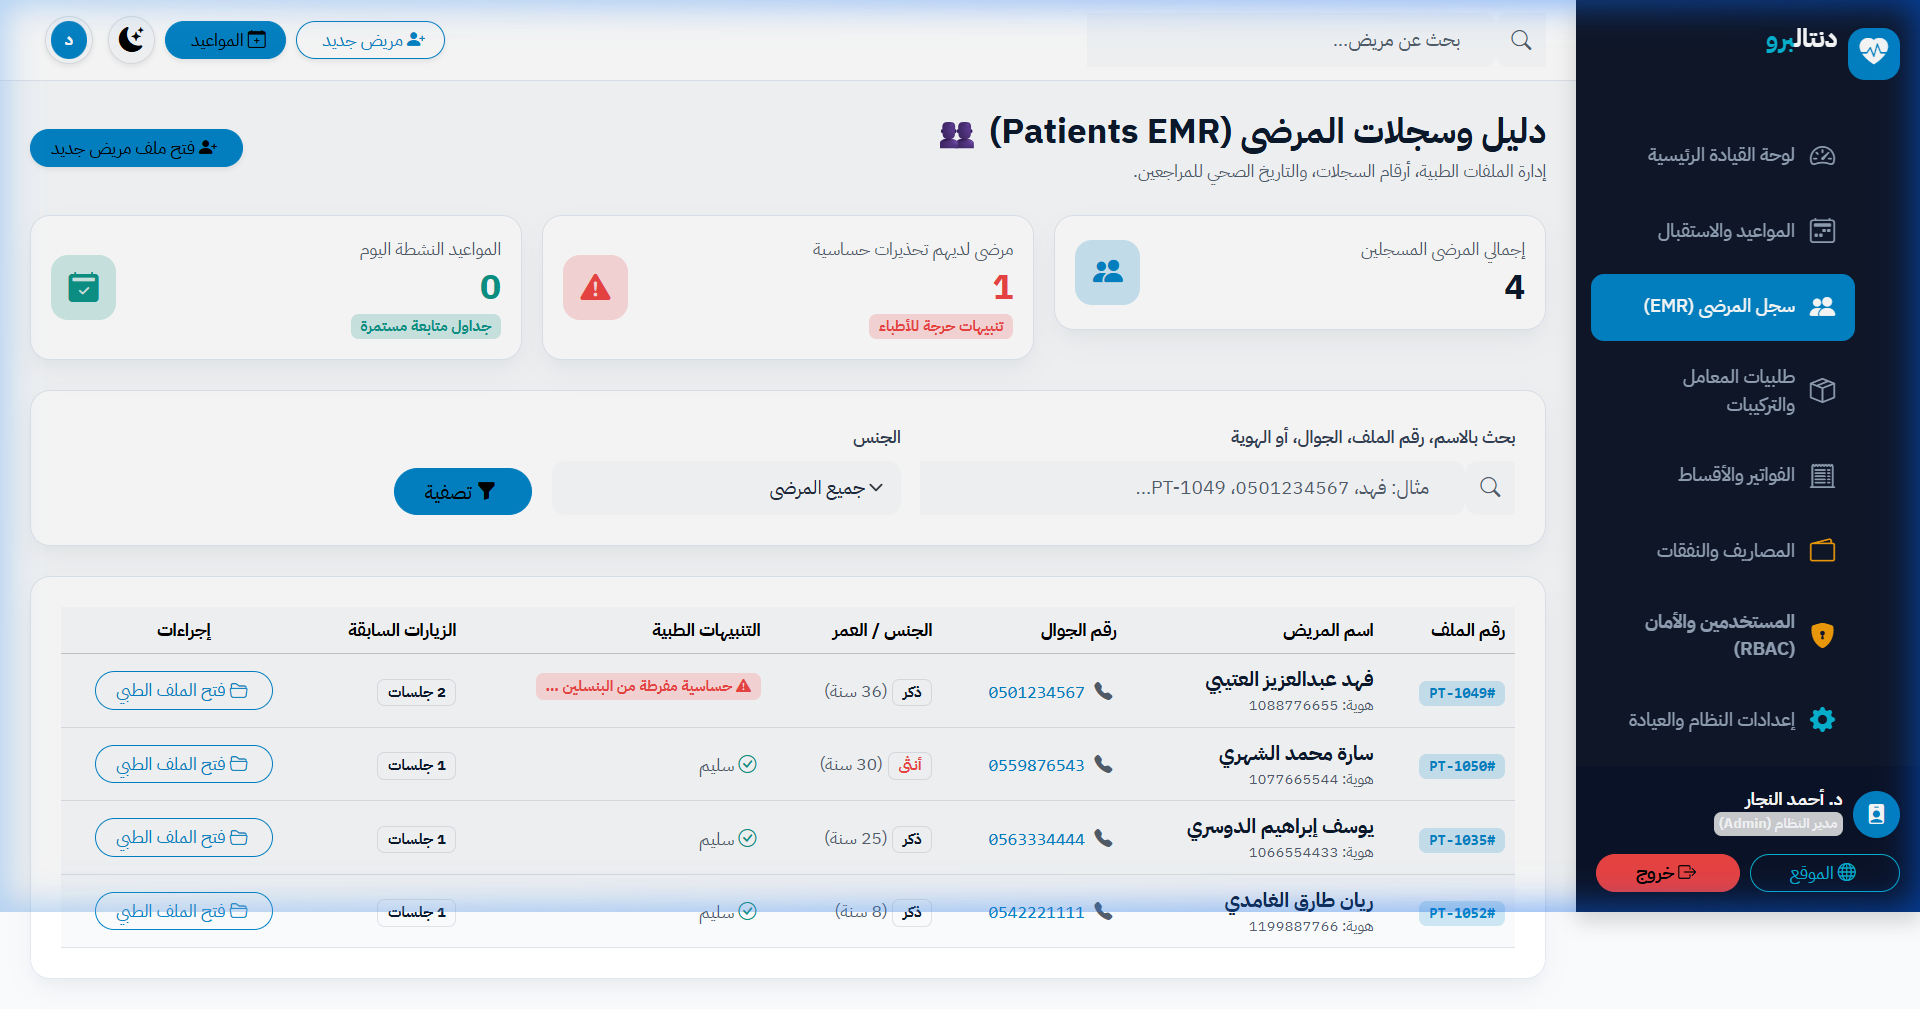
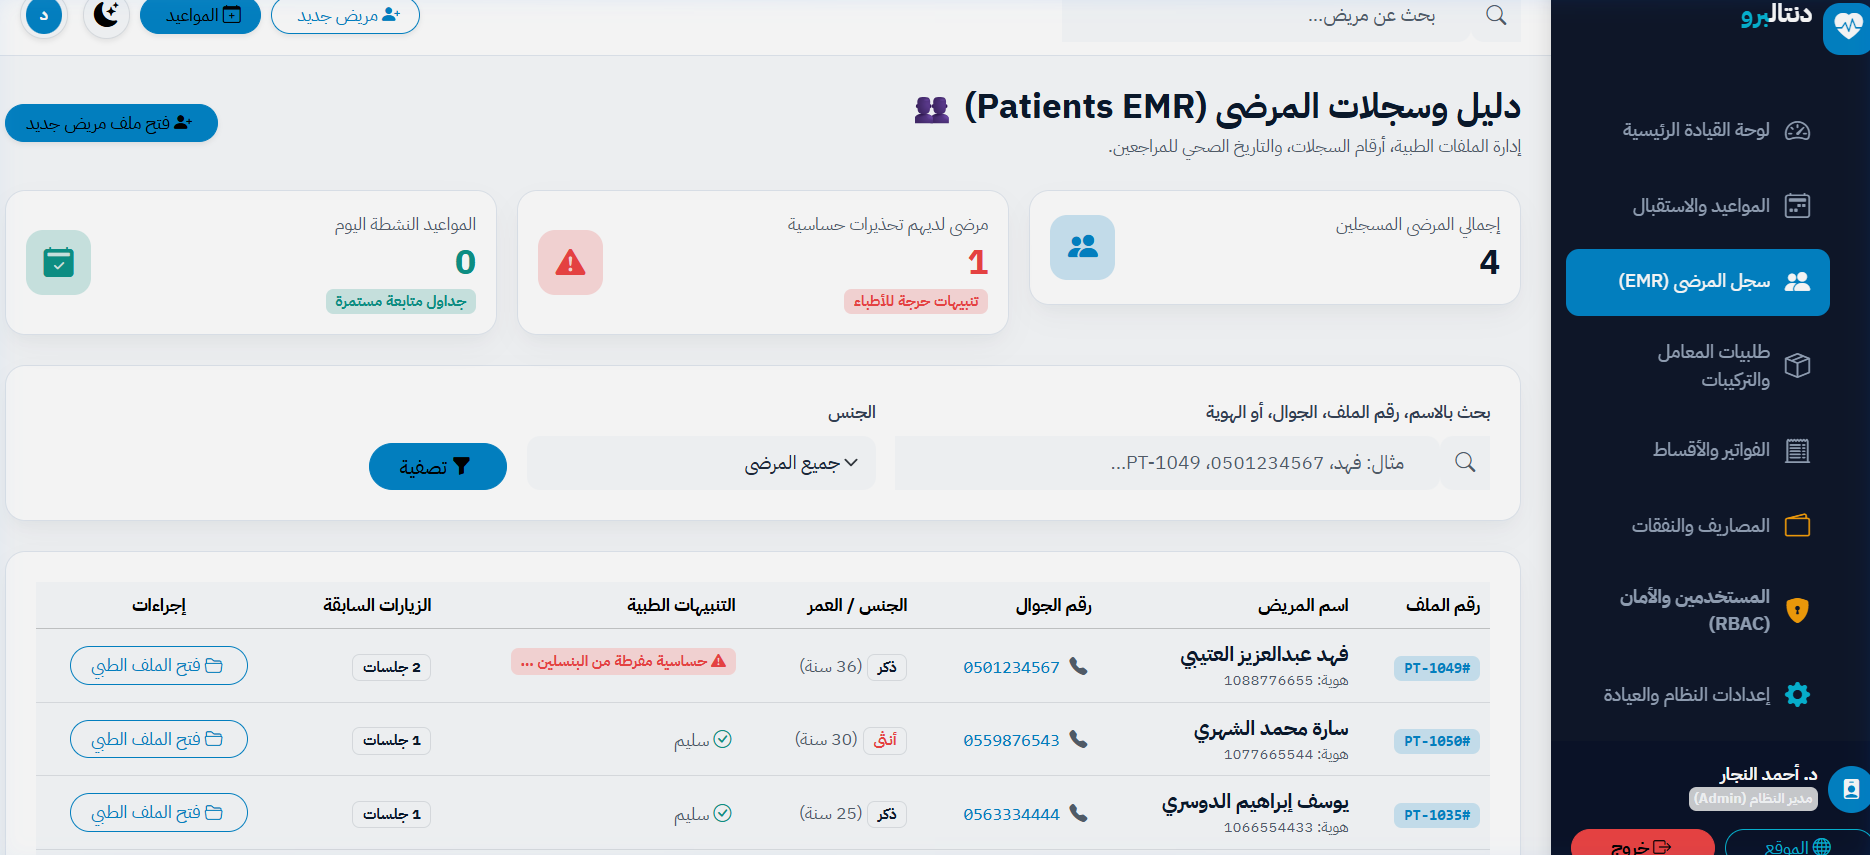
fix(landing): remove blue borders and highlight artifacts from all screenshots and CSS frame

diff --git a/resources/views/website/index.blade.php b/resources/views/website/index.blade.php
@@ -127,7 +127,7 @@
         background: #0b1329;
         border-radius: 1.25rem;
         border: 1px solid rgba(255, 255, 255, 0.15);
-        box-shadow: 0 25px 60px -15px rgba(11, 19, 41, 0.35), 0 0 40px rgba(2, 132, 199, 0.15);
+        box-shadow: 0 25px 60px -15px rgba(11, 19, 41, 0.35), 0 10px 25px -5px rgba(0, 0, 0, 0.2);
         overflow: hidden;
         position: relative;
         transition: transform 0.4s cubic-bezier(0.16, 1, 0.3, 1), box-shadow 0.4s ease;
@@ -172,10 +172,14 @@
         overflow: hidden;
     }
 
-    .saas-hero-image {
+    .saas-hero-image,
+    #activeScreenImage {
         width: 100%;
         height: auto;
         display: block;
+        border: none !important;
+        outline: none !important;
+        box-shadow: none !important;
         transition: transform 0.6s ease;
     }
 
